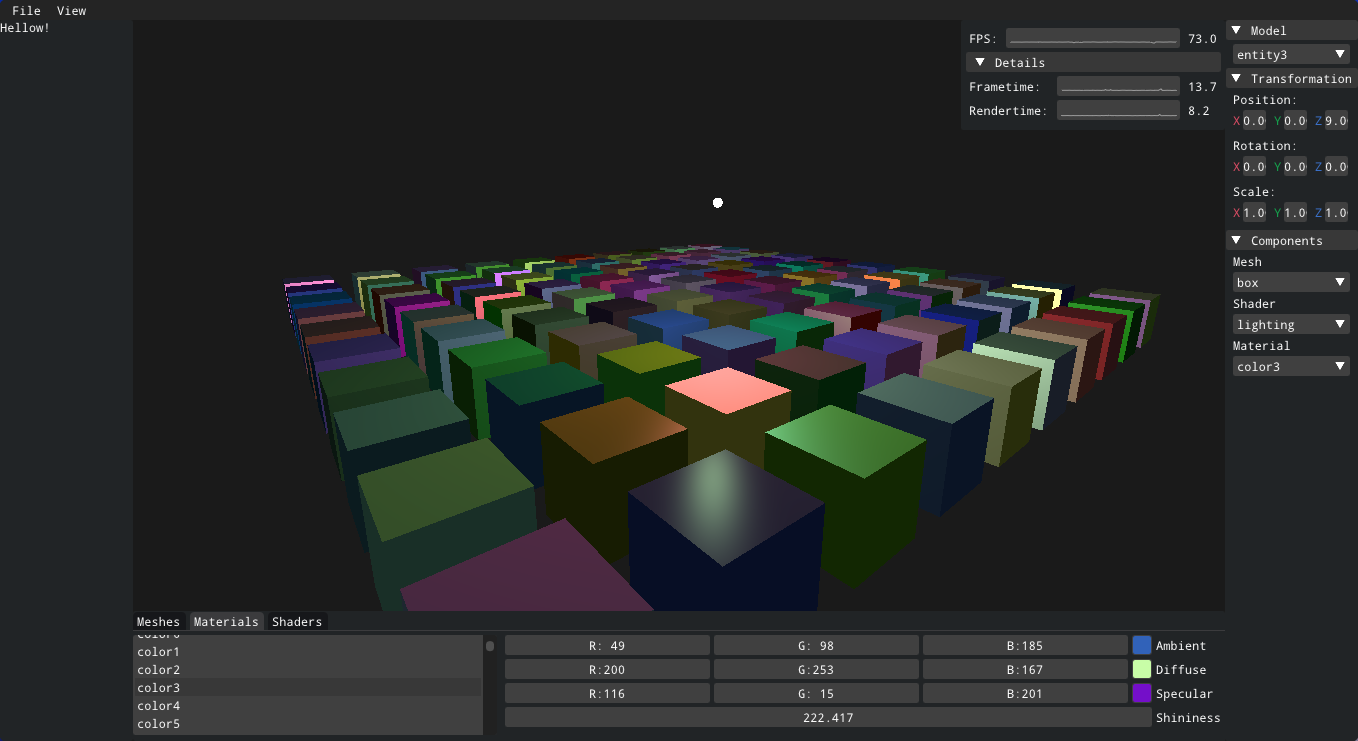
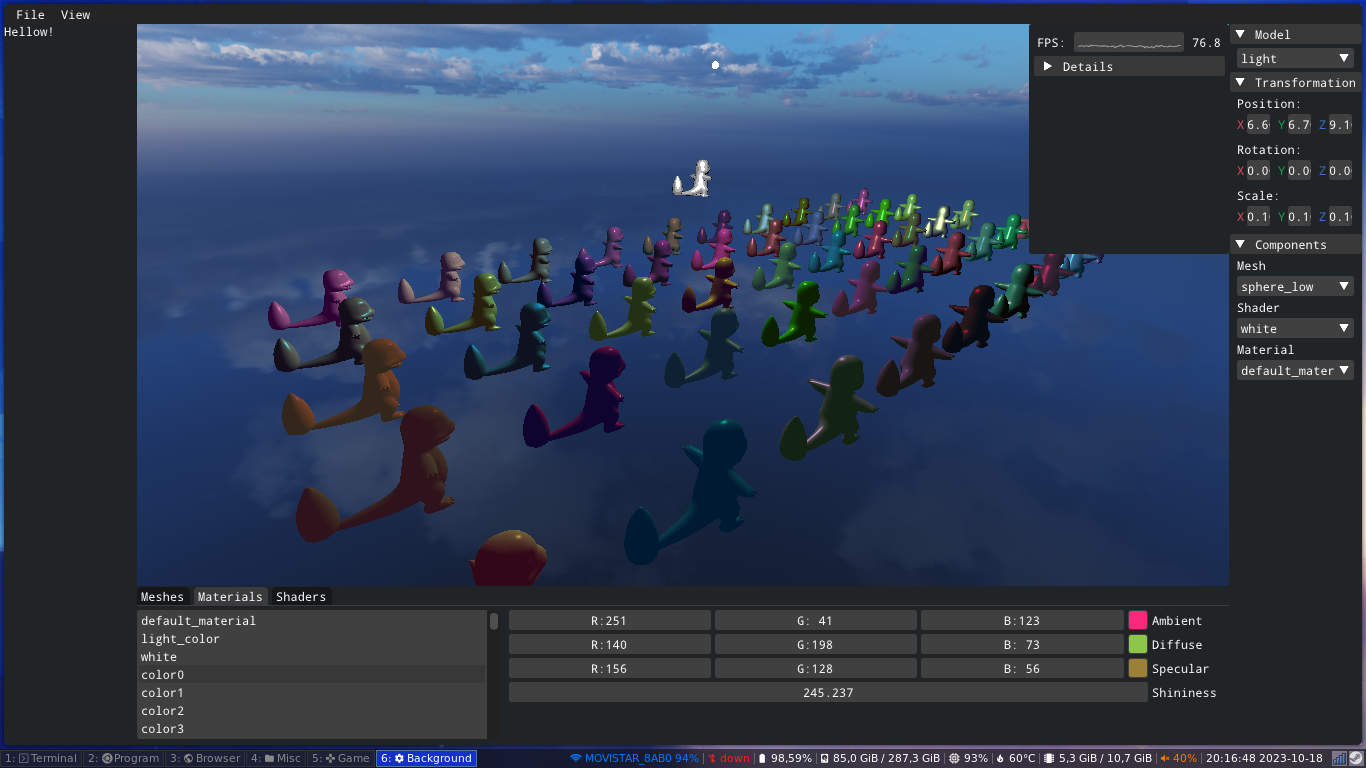
added skybox

diff --git a/src/renderer/RendererManager.py b/src/renderer/RendererManager.py
@@ -5,6 +5,8 @@ from PIL import Image
 import pywavefront
 import glm
 import multiprocessing
+from PIL import Image
+import numpy as np
 
 # custom modules imports
 from utils.Singleton import Singleton
@@ -75,6 +77,8 @@ class RendererManager(metaclass=Singleton):
 
         # setup the rendering framebuffer
         self._setup_render_framebuffer()
+
+        self._setup_skybox()
         
     # method to setup the required entities for the engine
     def _setup_entities(self):
@@ -85,7 +89,7 @@ class RendererManager(metaclass=Singleton):
         self.shaders["lighting_instanced"] = Shader("assets/shaders/lighting_instanced/lighting_instanced.vert", "assets/shaders/lighting_instanced/lighting_instanced.frag")
         
         # self.new_mesh("screen_quad", "./assets/models/quad.obj")
-        # self.new_mesh("default_mesh", "assets/models/box.obj")
+        self.new_mesh("default_mesh", "assets/models/default/box.obj")
 
         self.new_material("default_material", *(0.2, 0.2, 0.2), *(0.6, 0.6, 0.6), *(1.0, 1.0, 1.0), 1.0)
         self.new_material("light_color", *(0.2, 0.2, 0.2), *(0.5, 0.5, 0.5), *(1.0, 1.0, 1.0), 1.0)
@@ -130,6 +134,49 @@ class RendererManager(metaclass=Singleton):
         # rebind the default framebuffer 
         glBindFramebuffer(GL_FRAMEBUFFER, 0)
 
+    # method for setting up the skybox
+    def _setup_skybox(self):
+        # directory of the skybox files
+        filepath = "./assets/textures/Epic_BlueSunset/"
+
+        # list of faces
+        texture_faces = []
+        texture_faces.append(filepath + "left.png")
+        texture_faces.append(filepath + "right.png")
+        texture_faces.append(filepath + "top.png")
+        texture_faces.append(filepath + "bottom.png")
+        texture_faces.append(filepath + "back.png")
+        texture_faces.append(filepath + "front.png")
+            
+        # generate a cubemap texture
+        self.skybox_texture = glGenTextures(1)
+        glBindTexture(GL_TEXTURE_CUBE_MAP, self.skybox_texture)
+
+        # iterate through the faces, load the image and store it in the right face of the cubemap
+        for i in range(len(texture_faces)):
+            im = Image.open(texture_faces[i])#.transpose(Image.FLIP_TOP_BOTTOM)
+
+            # flip the top and bottom images
+            if i == 2 or i == 3:
+                im = im.transpose(Image.FLIP_LEFT_RIGHT)
+                im = im.transpose(Image.FLIP_TOP_BOTTOM)
+
+            # get the data of the loaded face image
+            imdata = np.fromstring(im.tobytes(), np.uint8)
+
+            # store the data of the image in the cubemap texture
+            glTexImage2D(GL_TEXTURE_CUBE_MAP_POSITIVE_X + i, 0, GL_RGB, im.size[0], im.size[1], 0, GL_RGB, GL_UNSIGNED_BYTE, imdata)
+
+        # set the texture behaviour
+        glTexParameteri(GL_TEXTURE_CUBE_MAP, GL_TEXTURE_MAG_FILTER, GL_LINEAR)
+        glTexParameteri(GL_TEXTURE_CUBE_MAP, GL_TEXTURE_MIN_FILTER, GL_LINEAR)
+        glTexParameteri(GL_TEXTURE_CUBE_MAP, GL_TEXTURE_WRAP_S, GL_CLAMP_TO_EDGE)
+        glTexParameteri(GL_TEXTURE_CUBE_MAP, GL_TEXTURE_WRAP_T, GL_CLAMP_TO_EDGE)
+        glTexParameteri(GL_TEXTURE_CUBE_MAP, GL_TEXTURE_WRAP_R, GL_CLAMP_TO_EDGE)
+
+        # load the skybox rendering shader
+        self.shaders["skybox"] = Shader("assets/shaders/skybox/skybox.vert", "assets/shaders/skybox/skybox.frag")
+
     # --------------------------- Creating Components ----------------------------------
 
     # method to create a new mesh, a count can be specified to generate more than 1 mesh with the same 3D model
@@ -172,7 +219,7 @@ class RendererManager(metaclass=Singleton):
 
         # convert the lists into indiced lists and obtain an indices list for indexed rendering
         # indices, indiced_vertices, indiced_normals, indiced_uvs = index_vertices(formatted_vertices, formatted_normals, formatted_uvs)
-        indices, indiced_vertices, indiced_normals, indiced_uvs = index_vertices_multi_thread(formatted_vertices, formatted_normals, formatted_uvs)
+        indices, indiced_vertices, indiced_normals, indiced_uvs = index_vertices(formatted_vertices, formatted_normals, formatted_uvs)
 
         # keep track of the indices count
         self.indices_count[name] = len(indices)
@@ -223,6 +270,9 @@ class RendererManager(metaclass=Singleton):
         # pass the data for the element array buffer of indices
         glBindBuffer(GL_ELEMENT_ARRAY_BUFFER, self.ebos[name])
         glBufferData(GL_ELEMENT_ARRAY_BUFFER, indices.nbytes, indices, GL_STATIC_DRAW)
+
+    def new_shader(self, name, vert_path, frag_path):
+        self.shaders[name] = Shader(vert_path, frag_path)
 
     # method to generate a new texture (needs double checking if it's correct)
     def new_texture(self, name, filepath):
@@ -684,12 +734,4 @@ class RendererManager(metaclass=Singleton):
          # update the instances
         for instance in self.instances.values():
             instance.update()
-
-       
-
-
-        
-
-    
-
-            
+          

diff --git a/src/renderer/Renderer.py b/src/renderer/Renderer.py
@@ -16,6 +16,7 @@ class Renderer(metaclass=Singleton):
         glClearColor(0.1, 0.1, 0.1, 1.0)
         # enable depth testing (hide further away triangles if covered)
         glEnable(GL_DEPTH_TEST)
+        glDepthFunc(GL_LEQUAL)
         # enable face culling (don't render the inside of triangles)
         glEnable(GL_CULL_FACE)
         # enable alpha blending (transparency)
@@ -36,10 +37,13 @@ class Renderer(metaclass=Singleton):
         glBindFramebuffer(GL_FRAMEBUFFER, rm.render_framebuffer)
         # clear the framebuffer and depth buffers
         glClear(GL_COLOR_BUFFER_BIT | GL_DEPTH_BUFFER_BIT)
+
         # draw the single models 
         self._render_models()
         # and the instances
         self._render_instances()
+
+        self._render_skybox()
 
         # draw the render quad to it
         # self._render_screen()
@@ -111,7 +115,31 @@ class Renderer(metaclass=Singleton):
             # glDrawArraysInstanced(GL_TRIANGLES, 0, int(rm.vertices_count[instance.mesh]), len(instance.models))
             glDrawElementsInstanced(GL_TRIANGLES, int(rm.indices_count[instance.mesh]), GL_UNSIGNED_INT, None, len(instance.models))
 
-        
+    # method to render the skybox
+    def _render_skybox(self):
+        # get a reference to the renderer manager
+        rm = RendererManager()
+
+        # use the skybox shader
+        rm.shaders["skybox"].use()
+
+        # temporarily place the camera at the origin, to cancel camera movement from the skybox rendering
+        old_position = rm.camera.position
+        rm.camera.place(0, 0, 0)
+        self._link_shader_uniforms(rm.shaders["skybox"])
+        rm.camera.place(old_position.x, old_position.y, old_position.z)
+
+        # bind the default mesh vao (cube)
+        glBindVertexArray(rm.vaos["default_mesh"])
+        glBindBuffer(GL_ELEMENT_ARRAY_BUFFER, rm.ebos["default_mesh"])
+
+        # disable cull facing
+        glDisable(GL_CULL_FACE)
+        glBindTexture(GL_TEXTURE_CUBE_MAP, rm.skybox_texture)
+        glDrawElements(GL_TRIANGLES, int(rm.indices_count["default_mesh"]), GL_UNSIGNED_INT, None)
+        glEnable(GL_CULL_FACE)
+
+
     def _render_screen(self):
         # bind the screen framebuffer
         glBindFramebuffer(GL_FRAMEBUFFER, 0)
@@ -153,6 +181,8 @@ class Renderer(metaclass=Singleton):
         if "eye" in shader.uniforms:
             glUniform3f(shader.uniforms["eye"], rm.camera.position.x, rm.camera.position.y, rm.camera.position.z)
 
+        if "skybox_view" in shader.uniforms:
+            glUniformMatrix4fv(shader.uniforms["skybox_view"], 1, GL_FALSE, rm.camera.get_skybox_ogl_matrix())
 
         light_material = rm.light_material()
 

diff --git a/src/scene.py b/src/scene.py
@@ -7,11 +7,13 @@ import glfw
 def setup():
     rm = RendererManager()
 
-    count = 1000
+    count = 50
 
-    # rm.new_mesh("gally", "assets/models/default/gally.obj")
+    rm.new_shader("cel", "assets/shaders/cel_shading/cel_shading.vert", "assets/shaders/cel_shading/cel_shading.frag")
+
+    rm.new_mesh("gally", "assets/models/default/gally.obj")
     rm.new_mesh("box", "assets/models/default/box.obj")
-    # rm.new_mesh("charmander", "assets/models/charmander/charmander.obj")
+    rm.new_mesh("charmander", "assets/models/charmander/charmander.obj")
     # rm.new_mesh("sphere", "assets/models/default/sphere.obj")
     rm.new_mesh("sphere_low", "assets/models/default/sphere_low.obj")
     # rm.new_mesh("quad", "assets/models/default/quad.obj")
@@ -22,9 +24,12 @@ def setup():
     # rm.scale("light", 0.25, 0.25, 0.25)
     rm.light_source = glm.vec3(5, 5, 5)
 
+    rm.new_model("cel", mesh="sphere_low", shader="cel", material="white")
+    rm.place("cel", 2, 2, 2)
+
     # rm.new_model("second_sphere", mesh="sphere", shader="lighting_instanced")
 
-    rm.new_instance("colored_entities", "sphere_low", "lighting_instanced")
+    rm.new_instance("colored_entities", "charmander", "lighting_instanced")
 
     entities = []
 
@@ -49,16 +54,16 @@ def update(dt):
     rm = RendererManager()
     time = dt / 1000.0
 
-    i = 0
+    # i = 0
 
-    for model in rm.instances["colored_entities"].models:
-        rm.move(model.name, time, time, time)
-        rm.rotate(model.name, time, time, time)
-        rm.scale(model.name, time * 3, time * 3, time * 3)
+    # for model in rm.instances["colored_entities"].models:
+    #     rm.move(model.name, time, time, time)
+    #     rm.rotate(model.name, time, time, time)
+    #     rm.scale(model.name, time * 3, time * 3, time * 3)
 
-        i += 1
-        if i == 400:
-            break
+    #     i += 1
+    #     if i == 2000:
+    #         break
 
     # for model in rm.models.values():
     #     rm.move(model.name, time, time, time)

diff --git a/src/main.py b/src/main.py
@@ -1,5 +1,3 @@
-# module to get the parameters from the command line
-import sys
 # module to create the window
 import glfw
 from OpenGL.GL import *
@@ -7,9 +5,7 @@ from OpenGL.GL import *
 import scene
 
 # local modules
-from utils import argument_parser as ap
 from utils.Timer import Timer
-from utils.Printer import Printer
 
 from window.Window import Window
 from renderer.RendererManager import RendererManager
@@ -31,9 +27,6 @@ def main():
     controller = Controller()
     # UI object
     ui = UI()
-
-    # printer object to print render information
-    # printer = Printer(interval = 2000)
 
     # execution timer
     frametime = Timer()
@@ -72,24 +65,24 @@ def main():
             glfw.poll_events()
             controller.update(window, tickrate)
             controltime.record()
+
             updatetime.reset()
             scene.update(tickrate)
-            
             updatetime.record()
+
             tick_accumulator -= tickrate
         
         rmupdatetime.reset()
         rm.update()
         rmupdatetime.record()
+
         renderer.render()
+
         ui.draw(dt, swaptime.laps[-1], controltime.laps[-1], updatetime.laps[-1], rmupdatetime.laps[-1])
-        # print(f"swaptime: {swaptime.laps[-1]}")
+
         swaptime.reset()
         glfw.swap_buffers(window.window)
         swaptime.record()
-
-        # print the rendering information
-        # printer.write(verbose=False, frametime=dt)
 
     glfw.terminate()
             

diff --git a/src/renderer/camera/Camera.py b/src/renderer/camera/Camera.py
@@ -35,6 +35,10 @@ class Camera:
         self.position += amount * self.front
         self._calculate_vectors()
 
+    def place(self, x, y, z):
+        self.position = glm.vec3(x, y, z)
+        self._calculate_vectors()
+
     # method to strafe the camera left and right
     def strafe(self, amount):
         self.position += amount * self.right
@@ -72,3 +76,6 @@ class Camera:
     # obtain a formatted version of the view matrix ready for opengl uniforms
     def get_ogl_matrix(self):
         return(glm.value_ptr(self.view_matrix))
+
+    # def get_skybox_ogl_matrix(self):
+    #     return(glm.value_ptr(glm.lookAt(glm.vec3(0), self.front, self.world_up)))

diff --git a/src/renderer/shader/Shader.py b/src/renderer/shader/Shader.py
@@ -35,6 +35,10 @@ class Shader:
         # view matrix uniform (mat4)
         if glGetUniformLocation(self.program, "view") != -1:
             self.uniforms["view"] = glGetUniformLocation(self.program, "view")
+
+        if glGetUniformLocation(self.program, "skybox_view") != -1:
+            self.uniforms["skybox_view"] = glGetUniformLocation(self.program, "skybox_view")
+
         # projection matrix uniform (mat4)
         if glGetUniformLocation(self.program, "projection") != -1:
             self.uniforms["projection"] = glGetUniformLocation(self.program, "projection")
